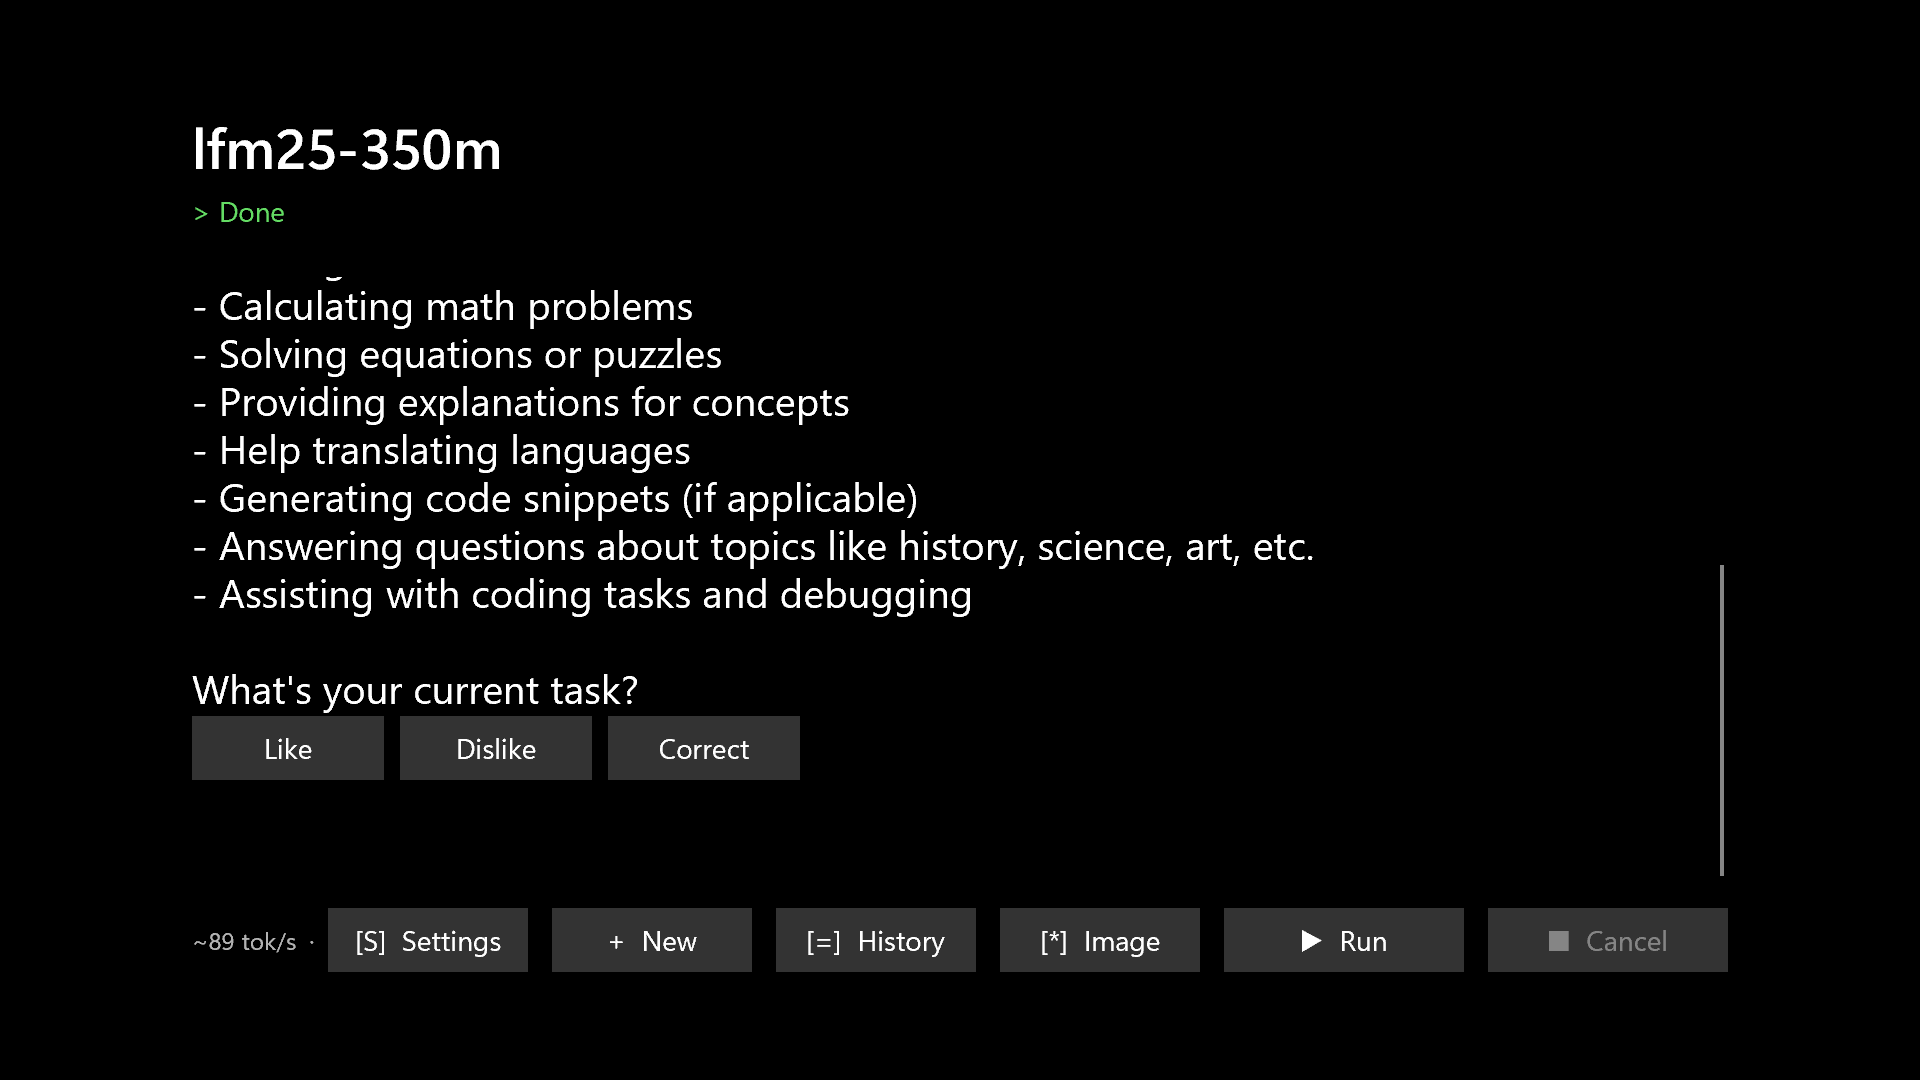
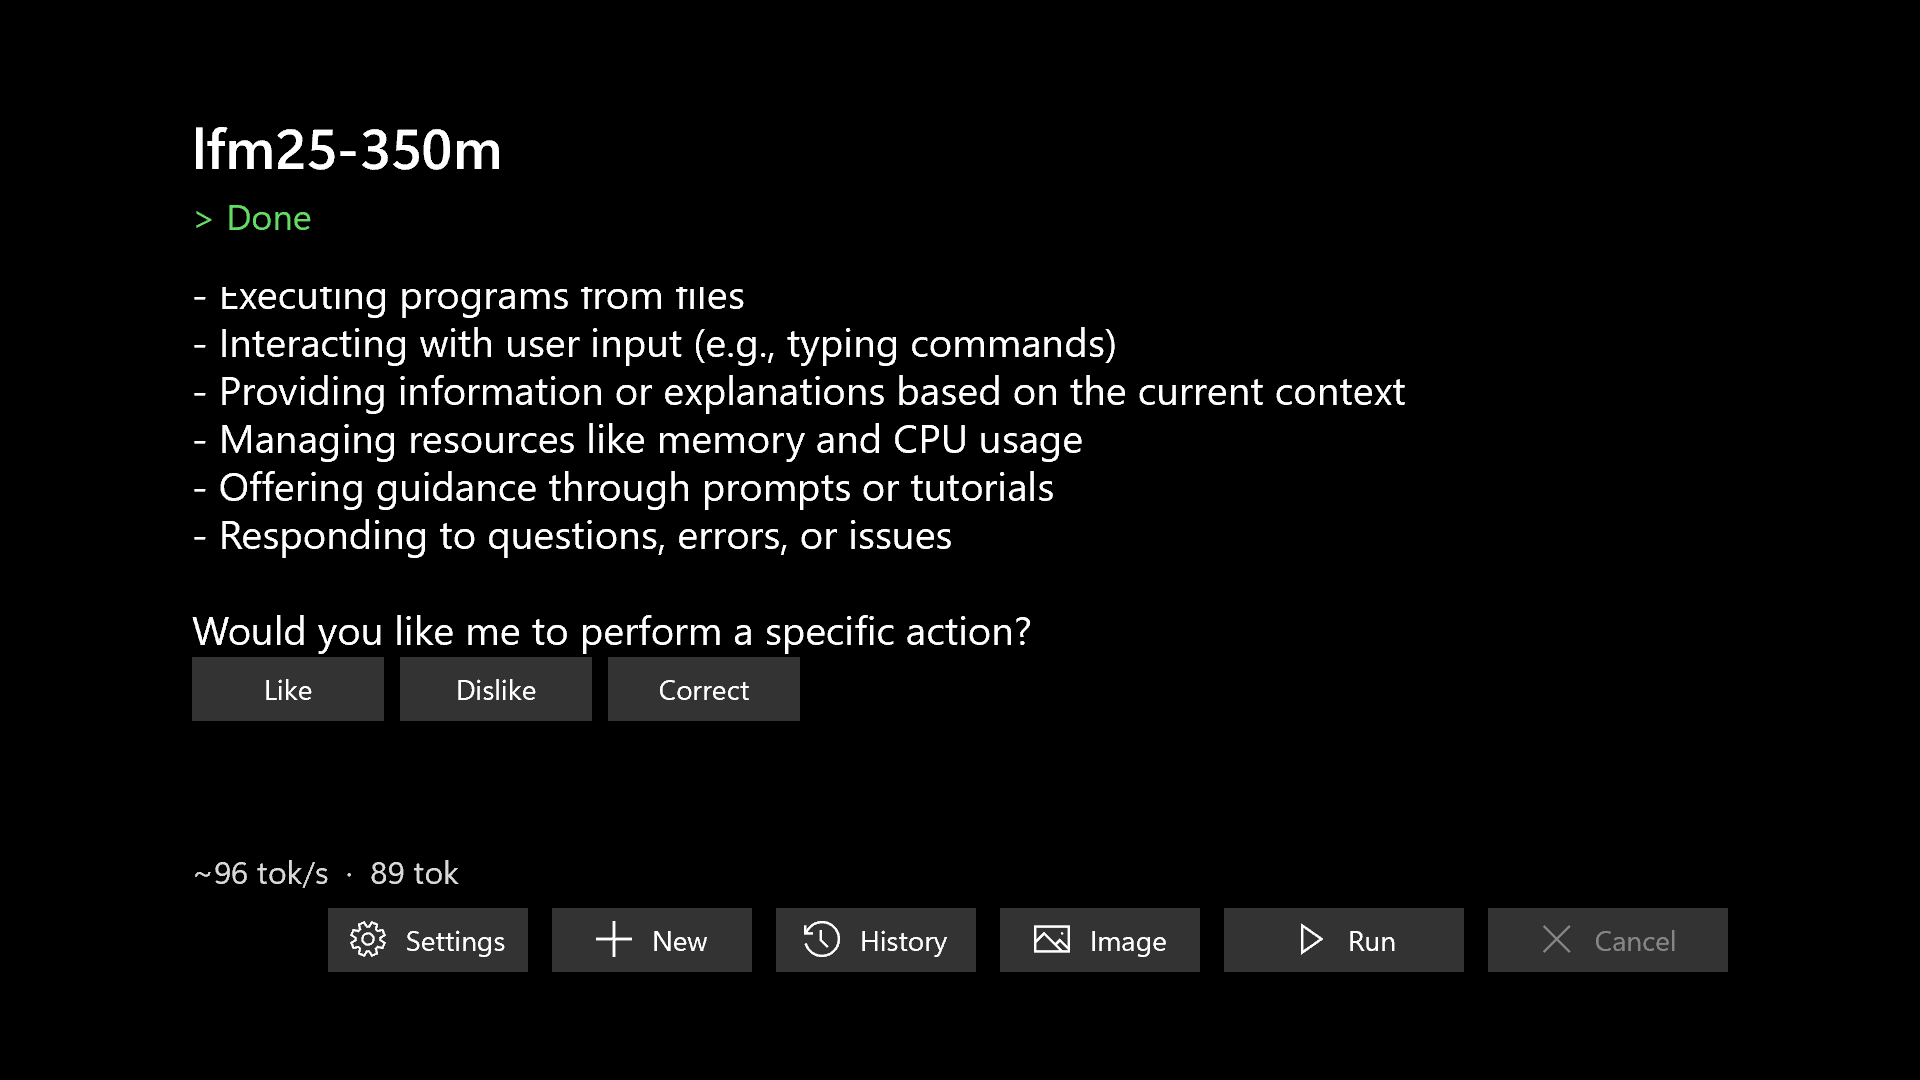
docs: refresh Store screenshots for the new UI
Captured on the console (1.6.0.1202) with scripts/capture-store-screenshots.sh
and the LAN API off, so they show what the Store SKU shows (no LAN panel):
icon toolbar, larger status text, metrics row, fixed history rows.

diff --git a/docs/store-readiness.md b/docs/store-readiness.md
@@ -367,7 +367,7 @@ App-mode tok/s. Do not claim "first LLM on Xbox".
 | Age rating              | IARC in Partner Center — prep sheet §11. Expect **not Everyone**. Open generative text + optional images. Text-only Store v1 is the fallback if image gen fails 11.7 / certification.                                                                                                                                                                                                                                                                                                                                                                                                                                                                                                                                                                                                                                                                                                                                                      |
 | Hardware                | Xbox Series S or Series X. Additional: free storage for model downloads (hundreds of MB default; several GB for larger catalogue / image gen). Gamepad.                                                                                                                                                                                                                                                                                                                                                                                                                                                                                                                                                                                                                                                                                                                                                                                    |
 | Search terms (≤7)       | local LLM; on-device AI; chatbot; generative AI; image generation; hobby; console AI                                                                                                                                                                                                                                                                                                                                                                                                                                                                                                                                                                                                                                                                                                                                                                                                                                                       |
-| Screenshots             | **5 captured** 2026-07-30 (`docs/screenshots/store/`, 1920×1080) via `scripts/capture-store-screenshots.sh`. Trailer: **none** for v1 (optional).                                                                                                                                                                                                                                                                                                                                                                                                                                                                                                                                                                                                                                                                                                                                                                                          |
+| Screenshots             | **5 captured** 2026-10-12 on 1.6.0.1202 with the LAN API off, as in the Store SKU (`docs/screenshots/store/`, 1920×1080) via `scripts/capture-store-screenshots.sh`. Trailer: **none** for v1 (optional).                                                                                                                                                                                                                                                                                                                                                                                                                                                                                                                                                                                                                                                                                                                                  |
 | Support                 | GitHub Issues: https://github.com/gianlucamazza/xllama/issues                                                                                                                                                                                                                                                                                                                                                                                                                                                                                                                                                                                                                                                                                                                                                                                                                                                                              |
 | Privacy                 | https://gianlucamazza.github.io/xllama/privacy.html                                                                                                                                                                                                                                                                                                                                                                                                                                                                                                                                                                                                                                                                                                                                                                                                                                                                                        |
 | Notes for certification | Store SKU (`XLLAMA_STORE_SKU`): no LAN, no USB, no headless flags; capability `internetClient` only. First-run disclaimer. Models from GitHub Releases `models-v1`. Generative AI is local; 11.16 report path is Settings → GitHub Issues. Request **Game** resource envelope. No Xbox network / ID@Xbox (no multiplayer). No login. First launch needs network for the default model download. Package identity is still the test publisher until this product’s Store CN is reserved and stamped — current CI MSIX is **not** Store-signed.                                                                                                                                                                                                                                                                                                                                                                                              |
